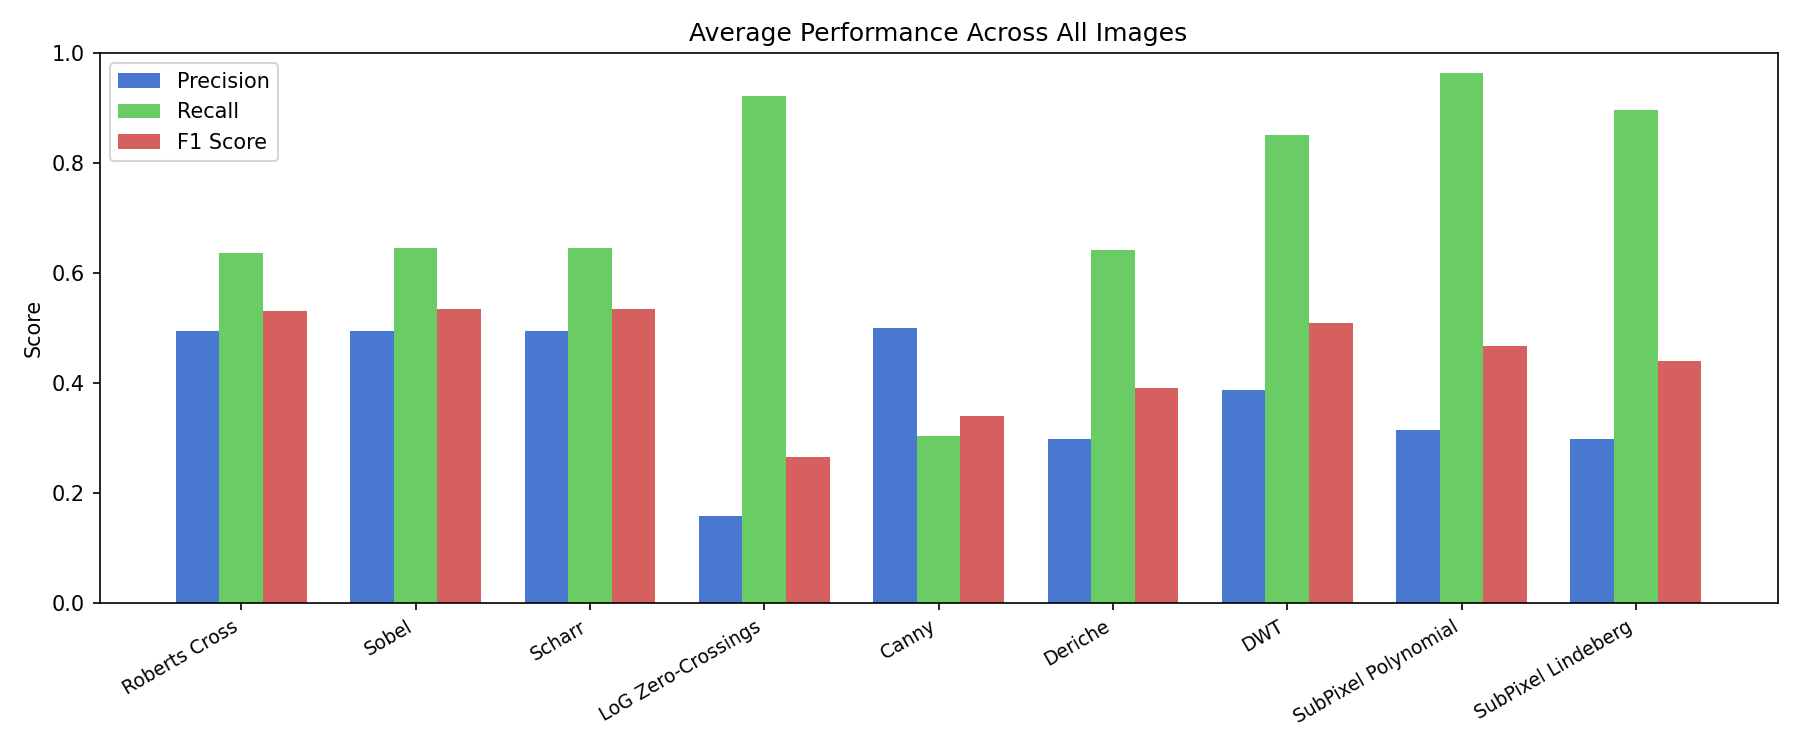
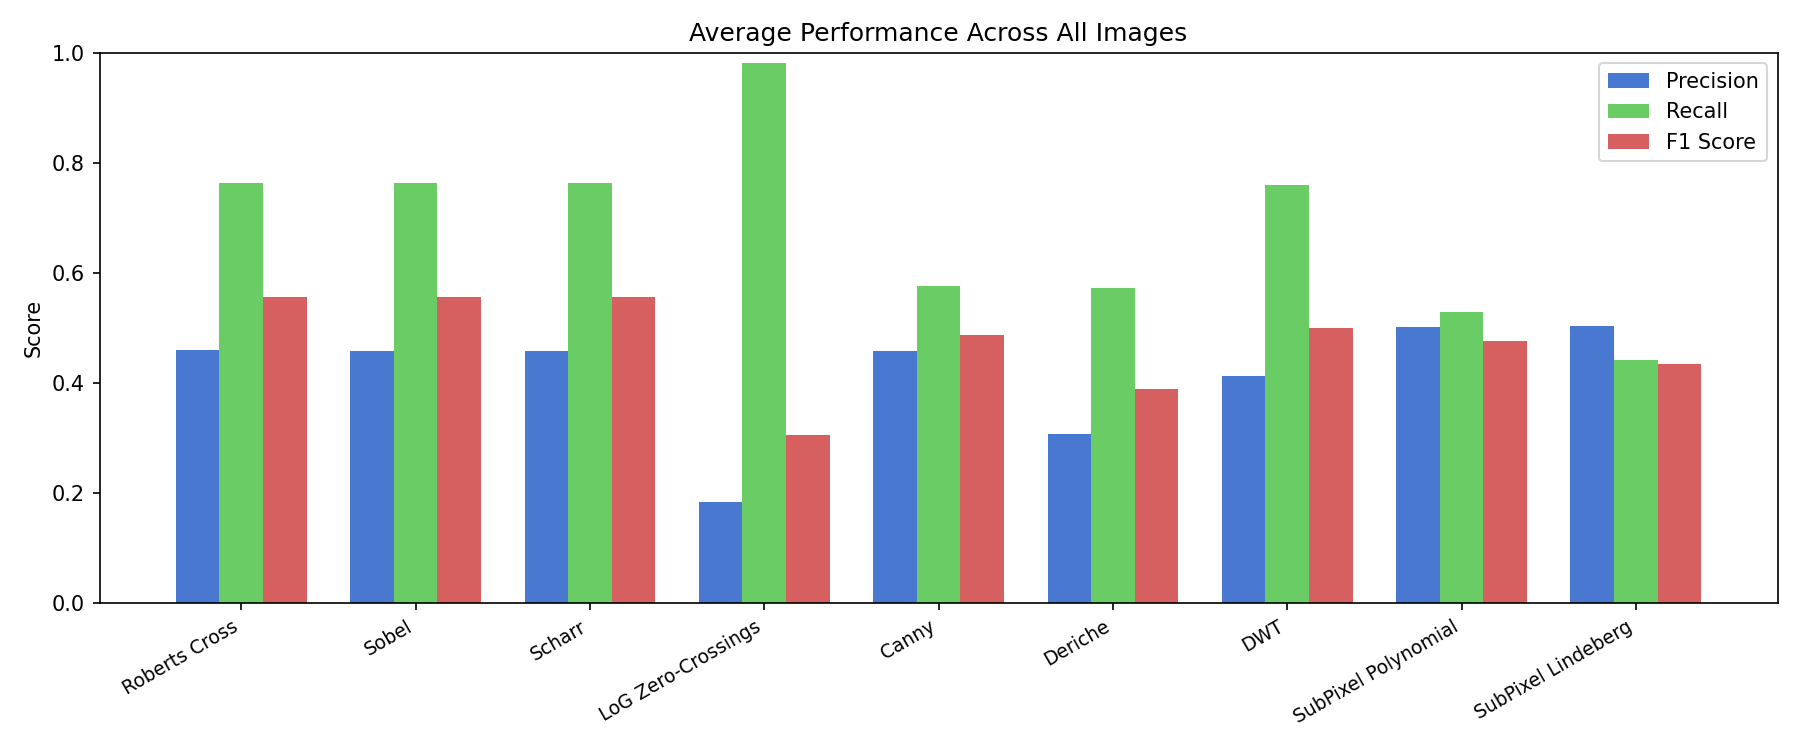
graphs

diff --git a/visualize.py b/visualize.py
@@ -64,24 +64,24 @@ def evaluate_edges(edge_map: np.ndarray, gt_mask: np.ndarray, polygon_px: np.nda
 def run_all_detectors(image_path: str) -> dict[str, np.ndarray]:
     results: dict[str, np.ndarray] = {}
 
-    fo = FirstOrder(image_path, threshold=50)
+    fo = FirstOrder(image_path, threshold=40)
     results["Roberts Cross"] = fo.robert_cross_operator()
     results["Sobel"] = fo.sobel_operator()
     results["Scharr"] = fo.scharr_operator()
 
-    so = SecondOrder(image_path, sigma=1.4)
+    so = SecondOrder(image_path, sigma=0.7)
     results["LoG Zero-Crossings"] = so.find_zero_crossings(threshold=0.1)
 
-    results["Canny"] = Canny(image_path, sigma=0.7).apply_canny()
-    results["Deriche"] = Deriche(image_path, alpha=1.0).apply_deriche()
-    results["DWT"] = DWT(image_path, k=2.0).get_adaptive_edges()
+    results["Canny"] = Canny(image_path, sigma=0.1).apply_canny()
+    results["Deriche"] = Deriche(image_path, alpha=0.6).apply_deriche()
+    results["DWT"] = DWT(image_path, k=2.5).get_adaptive_edges()
 
-    sp_poly = SubPixel(image_path, sensitivity=0.15).polynomial_fit()
+    sp_poly = SubPixel(image_path, sensitivity=0.5).polynomial_fit()
     if sp_poly.dtype != np.uint8:
         sp_poly = cv2.normalize(sp_poly, None, 0, 255, cv2.NORM_MINMAX, cv2.CV_8U)
     results["SubPixel Polynomial"] = sp_poly
 
-    results["SubPixel Lindeberg"] = SubPixel(image_path, sensitivity=0.15).lindeberg_differential()
+    results["SubPixel Lindeberg"] = SubPixel(image_path, sensitivity=0.5).lindeberg_differential()
     return results
 
 
